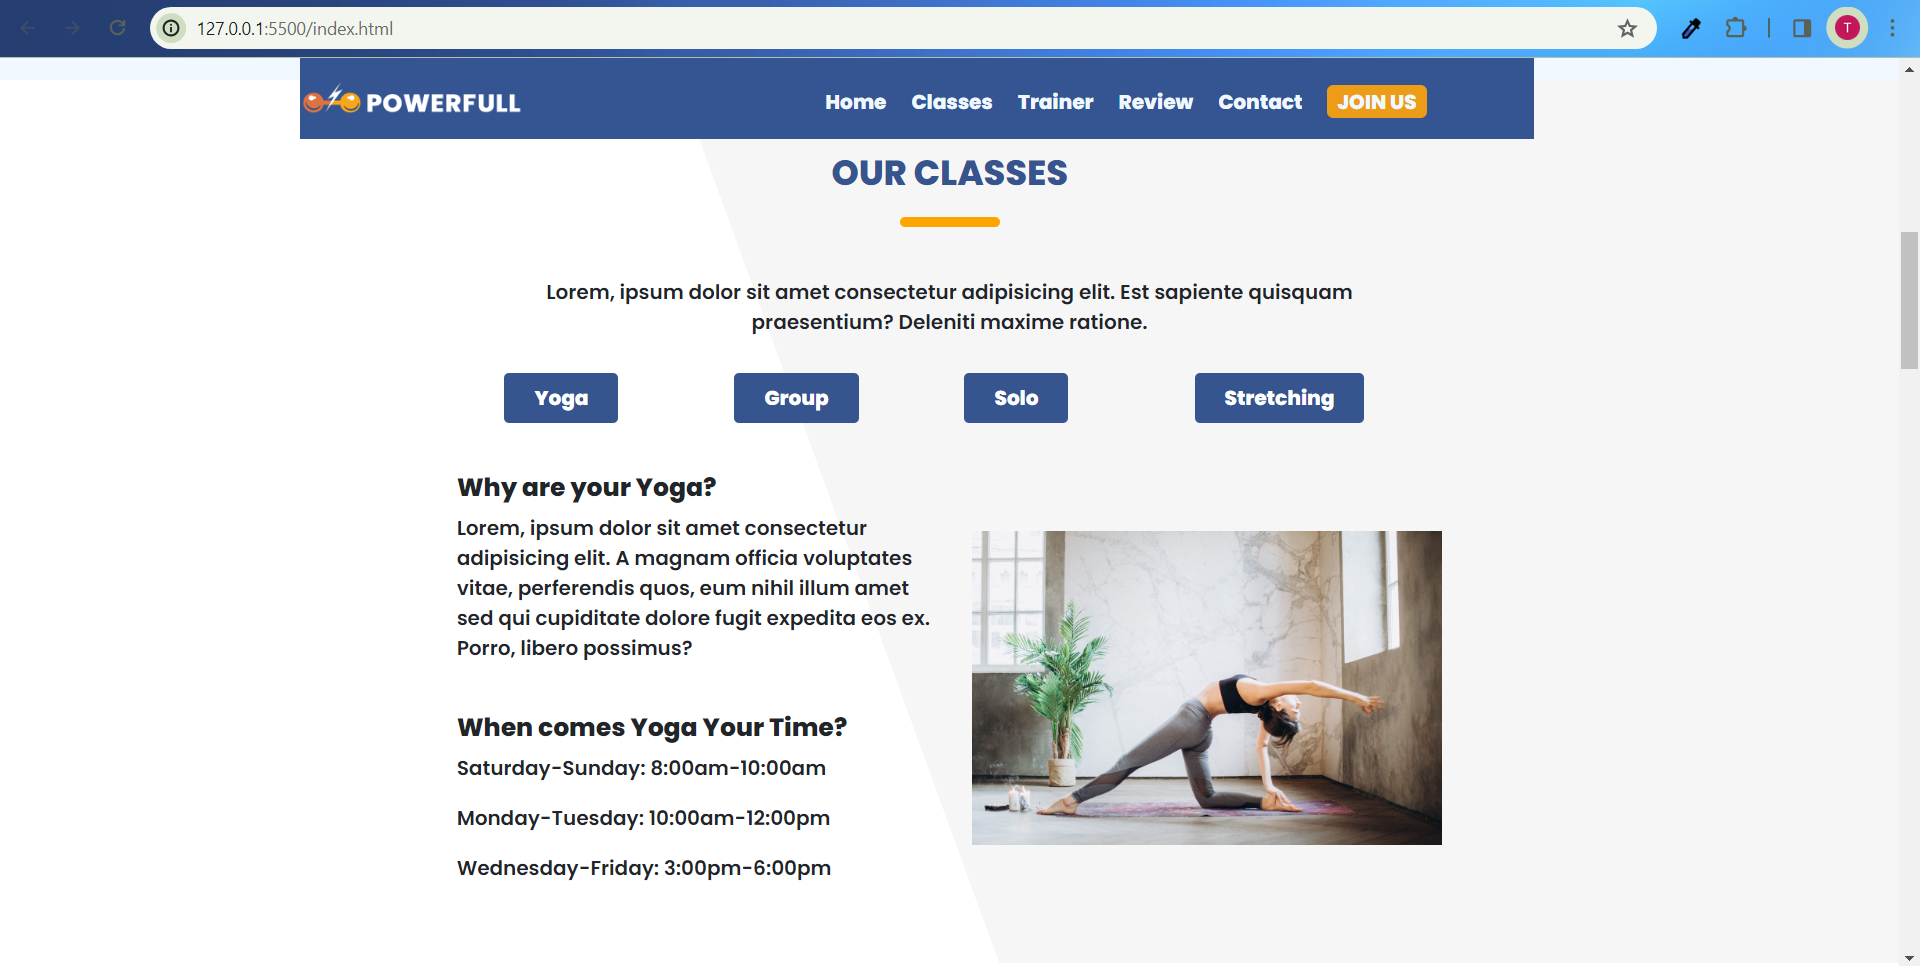
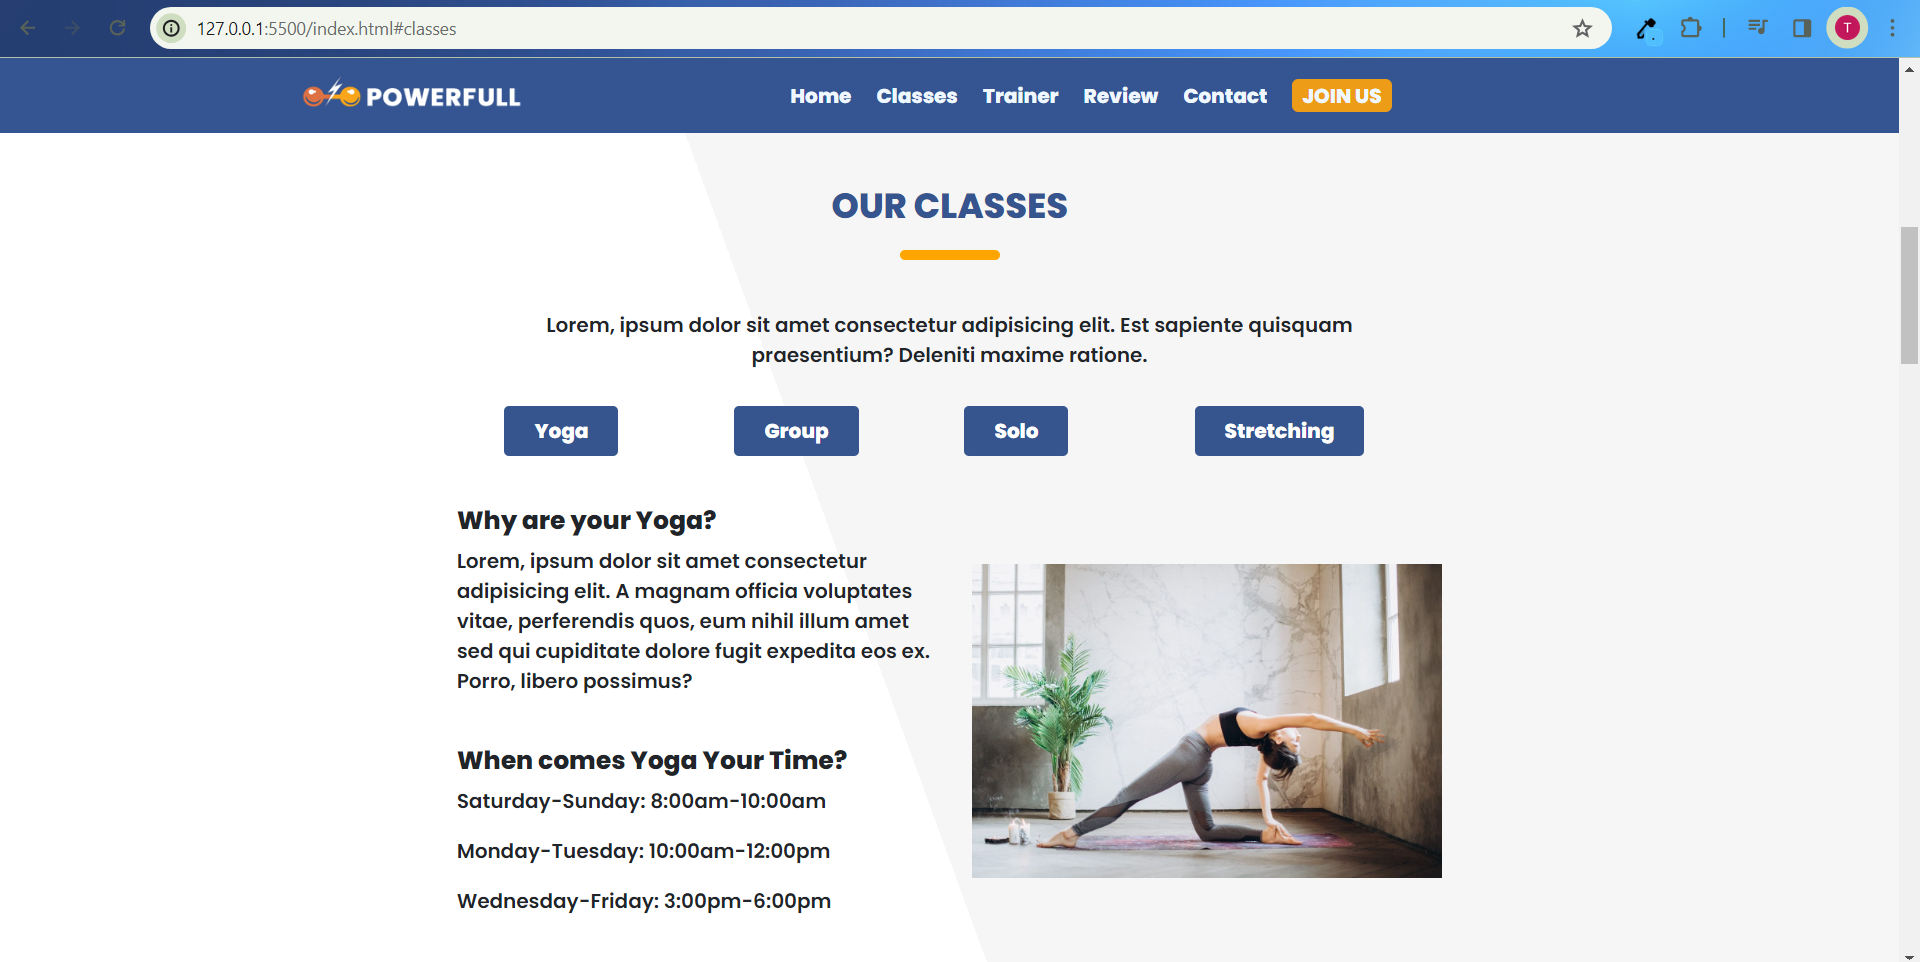
updated

diff --git a/sportCenter/index.html b/sportCenter/index.html
@@ -12,46 +12,49 @@
 <body>
     
     <header id="header" class=" pb-5 ">
-      
-        <div class="container">
+      <div class="banner-frame">
+            <div class="container">
 
-            <div class="banner  ">
-                <div class="logo">
-                    <img src="/images/logo.png" width="180px" height="60px" alt="Apple Logosu" >
-                </div>
-                
-                <label for="menu-btn"><img class="menu-btn menu-icon" src="/images/menu-btn.png" alt=""></label> 
-                
-                <input type="checkbox" id="menu-btn" class="menu-btn">
-                <nav id="navbar" class="navbar">
-
-                                            <!--Değerlendirme Kriteri 10-->  
-
-                    <ul class="navbar-nav ">
-                        <li class="nav-item">
-                            <a class="nav-link  " aria-current="page" href="#home">Home</a>
-                        </li>
-                        <li class="nav-item">
-                            <a class="nav-link" href="#classes">Classes</a>
-                        </li>
-                        <li class="nav-item">
-                            <a class="nav-link" href="#trainers">Trainer</a>
-                        </li>
-                        <li class="nav-item">
-                            <a class="nav-link" href="#review">Review</a>
-                        </li>
-                        <li class="nav-item">
-                            <a class="nav-link"  href="#contact">Contact</a>
-                        </li>
-                        <li class="nav-item">
-                            <a class="nav-link" aria-disabled="true"><span>JOIN US</span></a>
-                        </li>
+                <div class="banner  ">
+                    <div class="logo">
+                        <img src="/images/logo.png" width="180px" height="60px" alt="Apple Logosu" >
+                    </div>
                     
-                    </ul>
-                            
-                </nav>
-            </div>
+                    <label for="menu-btn"><img class="menu-btn menu-icon" src="/images/menu-btn.png" alt=""></label> 
+                    
+                    <input type="checkbox" id="menu-btn" class="menu-btn">
+                    <nav id="navbar" class="navbar">
 
+                                                <!--Değerlendirme Kriteri 10-->  
+
+                        <ul class="navbar-nav ">
+                            <li class="nav-item">
+                                <a class="nav-link  " aria-current="page" href="#home">Home</a>
+                            </li>
+                            <li class="nav-item">
+                                <a class="nav-link" href="#classes">Classes</a>
+                            </li>
+                            <li class="nav-item">
+                                <a class="nav-link" href="#trainers">Trainer</a>
+                            </li>
+                            <li class="nav-item">
+                                <a class="nav-link" href="#review">Review</a>
+                            </li>
+                            <li class="nav-item">
+                                <a class="nav-link"  href="#contact">Contact</a>
+                            </li>
+                            <li class="nav-item">
+                                <a class="nav-link" aria-disabled="true"><span>JOIN US</span></a>
+                            </li>
+                        
+                        </ul>
+                                
+                    </nav>
+                </div>
+            </div>
+        </div>
+
+        <div class="container">
             <div id="home" class=" row content">
                 <div class="top-content">
                     <p class="pFirst col">POWERFULL</p> 
@@ -71,6 +74,7 @@
            
          
         </div>
+    </div>
     </div>
 
         

diff --git a/sportCenter/css/style.css b/sportCenter/css/style.css
@@ -22,6 +22,7 @@ section{
 
 /*----HEADER START----*/
 
+
 #header{  /*Navbar Sabitlenemedi Başlıktaki group ve practice yanyana olmadı*/
    min-height: 94vh;
    width: auto;
@@ -33,6 +34,13 @@ section{
  
  
    
+}
+
+.banner-frame{
+    width: 100%;   
+    background-color:transparent;
+    z-index: 5000;
+    position: fixed;
 }
                                                             /*Değerlendirme Kriteri 9*/
 .navbar-bground {
@@ -50,12 +58,10 @@ section{
     align-items: center;
     justify-content: space-between;
     flex-wrap: wrap;
-    position: fixed;
-    gap: 80px;
-    width: 65%;
+    width:90%;
     padding-top: 1%;
     padding-right: 5%;
-   z-index: 1000;
+    z-index: 1000;
     
    
  }
@@ -763,22 +769,23 @@ footer .container{
     }
     #navbar {
         position: absolute;
-        transform: translateY(-150%);
+        transform: translateY(-150%);/*navbarı göstermesin.*/
     }
     
     #header .container .banner{
-        width: 85%;
+        width: 100%;
     }
     .menu-btn:checked ~ #navbar{
         display: block;
+        text-align: center;
         top: 5%;
-        left: 3%;
-        width: 90%;
-        transform: translateY(0);
-        border-top: 0.1rem solid #FFFFFF;
-        box-shadow: 0 0.5rem 1rem #FFFFFF;
-        transition: 0.2s linear;
-        margin-top: 1rem;
+        left: 2%;
+        width: 95%;
+        transform: translateY(13%);
+        border-top: 0.05rem solid white;
+        box-shadow: 0 0.5rem 1rem white;
+        background-color: #355592;
+        flex-wrap: wrap;
     }
     .menu-btn:checked ~ #navbar ul{
         display: block;
@@ -787,10 +794,11 @@ footer .container{
         padding: 0 2rem;
     }
     .menu-icon{
-        display: block;
+        display: inline-block;
         width: 50px;
         color: #FFFFFF;
         cursor: pointer;
+      
     }
  /*Hamburger Menu END*/
 

diff --git a/sportCenter/js/main.js b/sportCenter/js/main.js
@@ -132,7 +132,7 @@ weight.addEventListener("input", () =>{
 
                                           /*Değerlendirme Kriteri 9*/
 window.addEventListener('scroll', function () {
-    var navbar = document.querySelector('#header .container .banner');
+    var navbar = document.querySelector('.banner-frame');
    
     if (window.scrollY >10) {
         navbar.classList.add('navbar-bground');
